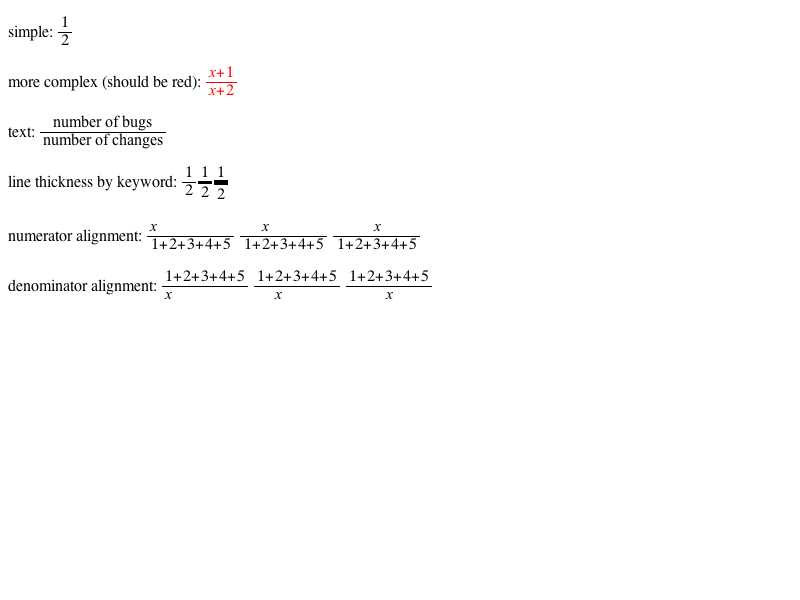
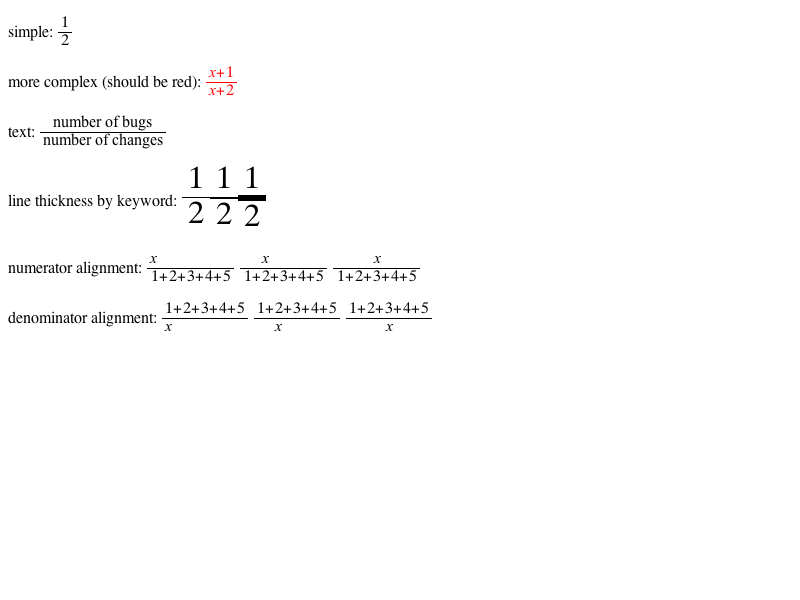
2011-01-10  François Sausset  <sausset@gmail.com>
Reviewed by Kenneth Rohde Christiansen.

        Updated tests and results to take into account new default fraction bar thickness.
        https://bugs.webkit.org/show_bug.cgi?id=50018

        * mathml/presentation/fractions.xhtml:
        * platform/mac/mathml/presentation/fractions-expected.checksum:
        * platform/mac/mathml/presentation/fractions-expected.png:
        * platform/mac/mathml/presentation/fractions-expected.txt:
2011-01-10  François Sausset  <sausset@gmail.com>

        Reviewed by Kenneth Rohde Christiansen.

        MathML: vertical alignment & bar thickness adjustments of fractions.
        https://bugs.webkit.org/show_bug.cgi?id=50018

        The fraction bar thickness default value should follow the w3c MathML 3 recommendation:
        http://www.w3.org/TR/MathML3/chapter3.html#presm.mfrac
        The vertical alignment of the fraction bar should be more accurate, specially with operators (+,=,...).

        Test: mathml/presentation/fractions.xhtml

        * rendering/mathml/RenderMathMLFraction.cpp:
        (WebCore::RenderMathMLFraction::RenderMathMLFraction):
        (WebCore::RenderMathMLFraction::updateFromElement):
        (WebCore::RenderMathMLFraction::layout):
        (WebCore::RenderMathMLFraction::paint):
        (WebCore::RenderMathMLFraction::baselinePosition):
        * rendering/mathml/RenderMathMLFraction.h:

git-svn-id: https://svn.webkit.org/repository/webkit/trunk@75385 268f45cc-cd09-0410-ab3c-d52691b4dbfc

Changed region(s): [[0.0, 0.27, 0.5312, 0.54]]

diff --git a/Source/WebCore/rendering/mathml/RenderMathMLFraction.cpp b/Source/WebCore/rendering/mathml/RenderMathMLFraction.cpp
@@ -39,16 +39,15 @@ namespace WebCore {
 using namespace MathMLNames;
 
 static const double gHorizontalPad = 0.2;
-static const int gLineThin = 1;
-static const int gLineMedium = 3;
-static const int gLineThick = 5;
-static const double gFractionAlignment = 0.25;
+static const double gLineThin = 0.33;
+static const double gLineMedium = 1.;
+static const double gLineThick = 3.;
 static const double gFractionBarWidth = 0.05;
 static const double gDenominatorPad = 0.1;
 
 RenderMathMLFraction::RenderMathMLFraction(Element* fraction) 
     : RenderMathMLBlock(fraction)
-    , m_lineThickness(gLineThin)
+    , m_lineThickness(gLineMedium)
 {
     setChildrenInline(false);
 }
@@ -84,7 +83,7 @@ void RenderMathMLFraction::updateFromElement()
     
     // FIXME: parse units
     String thickness = fraction->getAttribute(MathMLNames::linethicknessAttr);
-    m_lineThickness = gLineThin;
+    m_lineThickness = gLineMedium;
     if (equalIgnoringCase(thickness, "thin"))
         m_lineThickness = gLineThin;
     else if (equalIgnoringCase(thickness, "medium"))
@@ -125,7 +124,7 @@ void RenderMathMLFraction::layout()
 
     // Adjust the fraction line thickness for the zoom
     if (lastChild() && lastChild()->isRenderBlock())
-        m_lineThickness = static_cast<int>(m_lineThickness * ceil(gFractionBarWidth * style()->fontSize()));
+        m_lineThickness *= ceil(gFractionBarWidth * style()->fontSize());
 
     RenderBlock::layout();
 
@@ -143,8 +142,8 @@ void RenderMathMLFraction::paint(PaintInfo& info, int tx, int ty)
     int verticalOffset = 0;
     // The children are always RenderMathMLBlock instances
     if (firstChild()->isRenderMathMLBlock()) {
-        int adjustForThickness = m_lineThickness > 1 ? m_lineThickness / 2 : 1;
-        if (m_lineThickness % 2 == 1)
+        int adjustForThickness = m_lineThickness > 1 ? int(m_lineThickness / 2) : 1;
+        if (int(m_lineThickness) % 2 == 1)
             adjustForThickness++;
         RenderMathMLBlock* numerator = toRenderMathMLBlock(firstChild());
         if (numerator->isRenderMathMLRow())
@@ -158,7 +157,7 @@ void RenderMathMLFraction::paint(PaintInfo& info, int tx, int ty)
     
     info.context->save();
     
-    info.context->setStrokeThickness(static_cast<float>(m_lineThickness));
+    info.context->setStrokeThickness(m_lineThickness);
     info.context->setStrokeStyle(SolidStroke);
     info.context->setStrokeColor(style()->visitedDependentColor(CSSPropertyColor), ColorSpaceSRGB);
     
@@ -171,11 +170,13 @@ int RenderMathMLFraction::baselinePosition(FontBaseline, bool firstLine, LineDir
 {
     if (firstChild() && firstChild()->isRenderMathMLBlock()) {
         RenderMathMLBlock* numerator = toRenderMathMLBlock(firstChild());
-        // FIXME: the baseline should adjust so the fraction line aligns
-        // relative certain operators (e.g. aligns with the horizontal
-        // stroke of the plus).  1/3 of the current font size is just
-        // a good guess.
-        return numerator->offsetHeight() + style()->fontSize() / 3;
+        RenderStyle* refStyle = style();
+        if (previousSibling())
+            refStyle = previousSibling()->style();
+        else if (nextSibling())
+            refStyle = nextSibling()->style();
+        int shift = int(ceil((refStyle->font().xHeight() + 1) / 2));
+        return numerator->offsetHeight() + shift;
     }
     return RenderBlock::baselinePosition(AlphabeticBaseline, firstLine, lineDirection, linePositionMode);
 }

diff --git a/Source/WebCore/rendering/mathml/RenderMathMLFraction.h b/Source/WebCore/rendering/mathml/RenderMathMLFraction.h
@@ -43,7 +43,7 @@ public:
 protected:
     virtual void layout();
 private:
-    int m_lineThickness;
+    double m_lineThickness;
 };
 
 }
